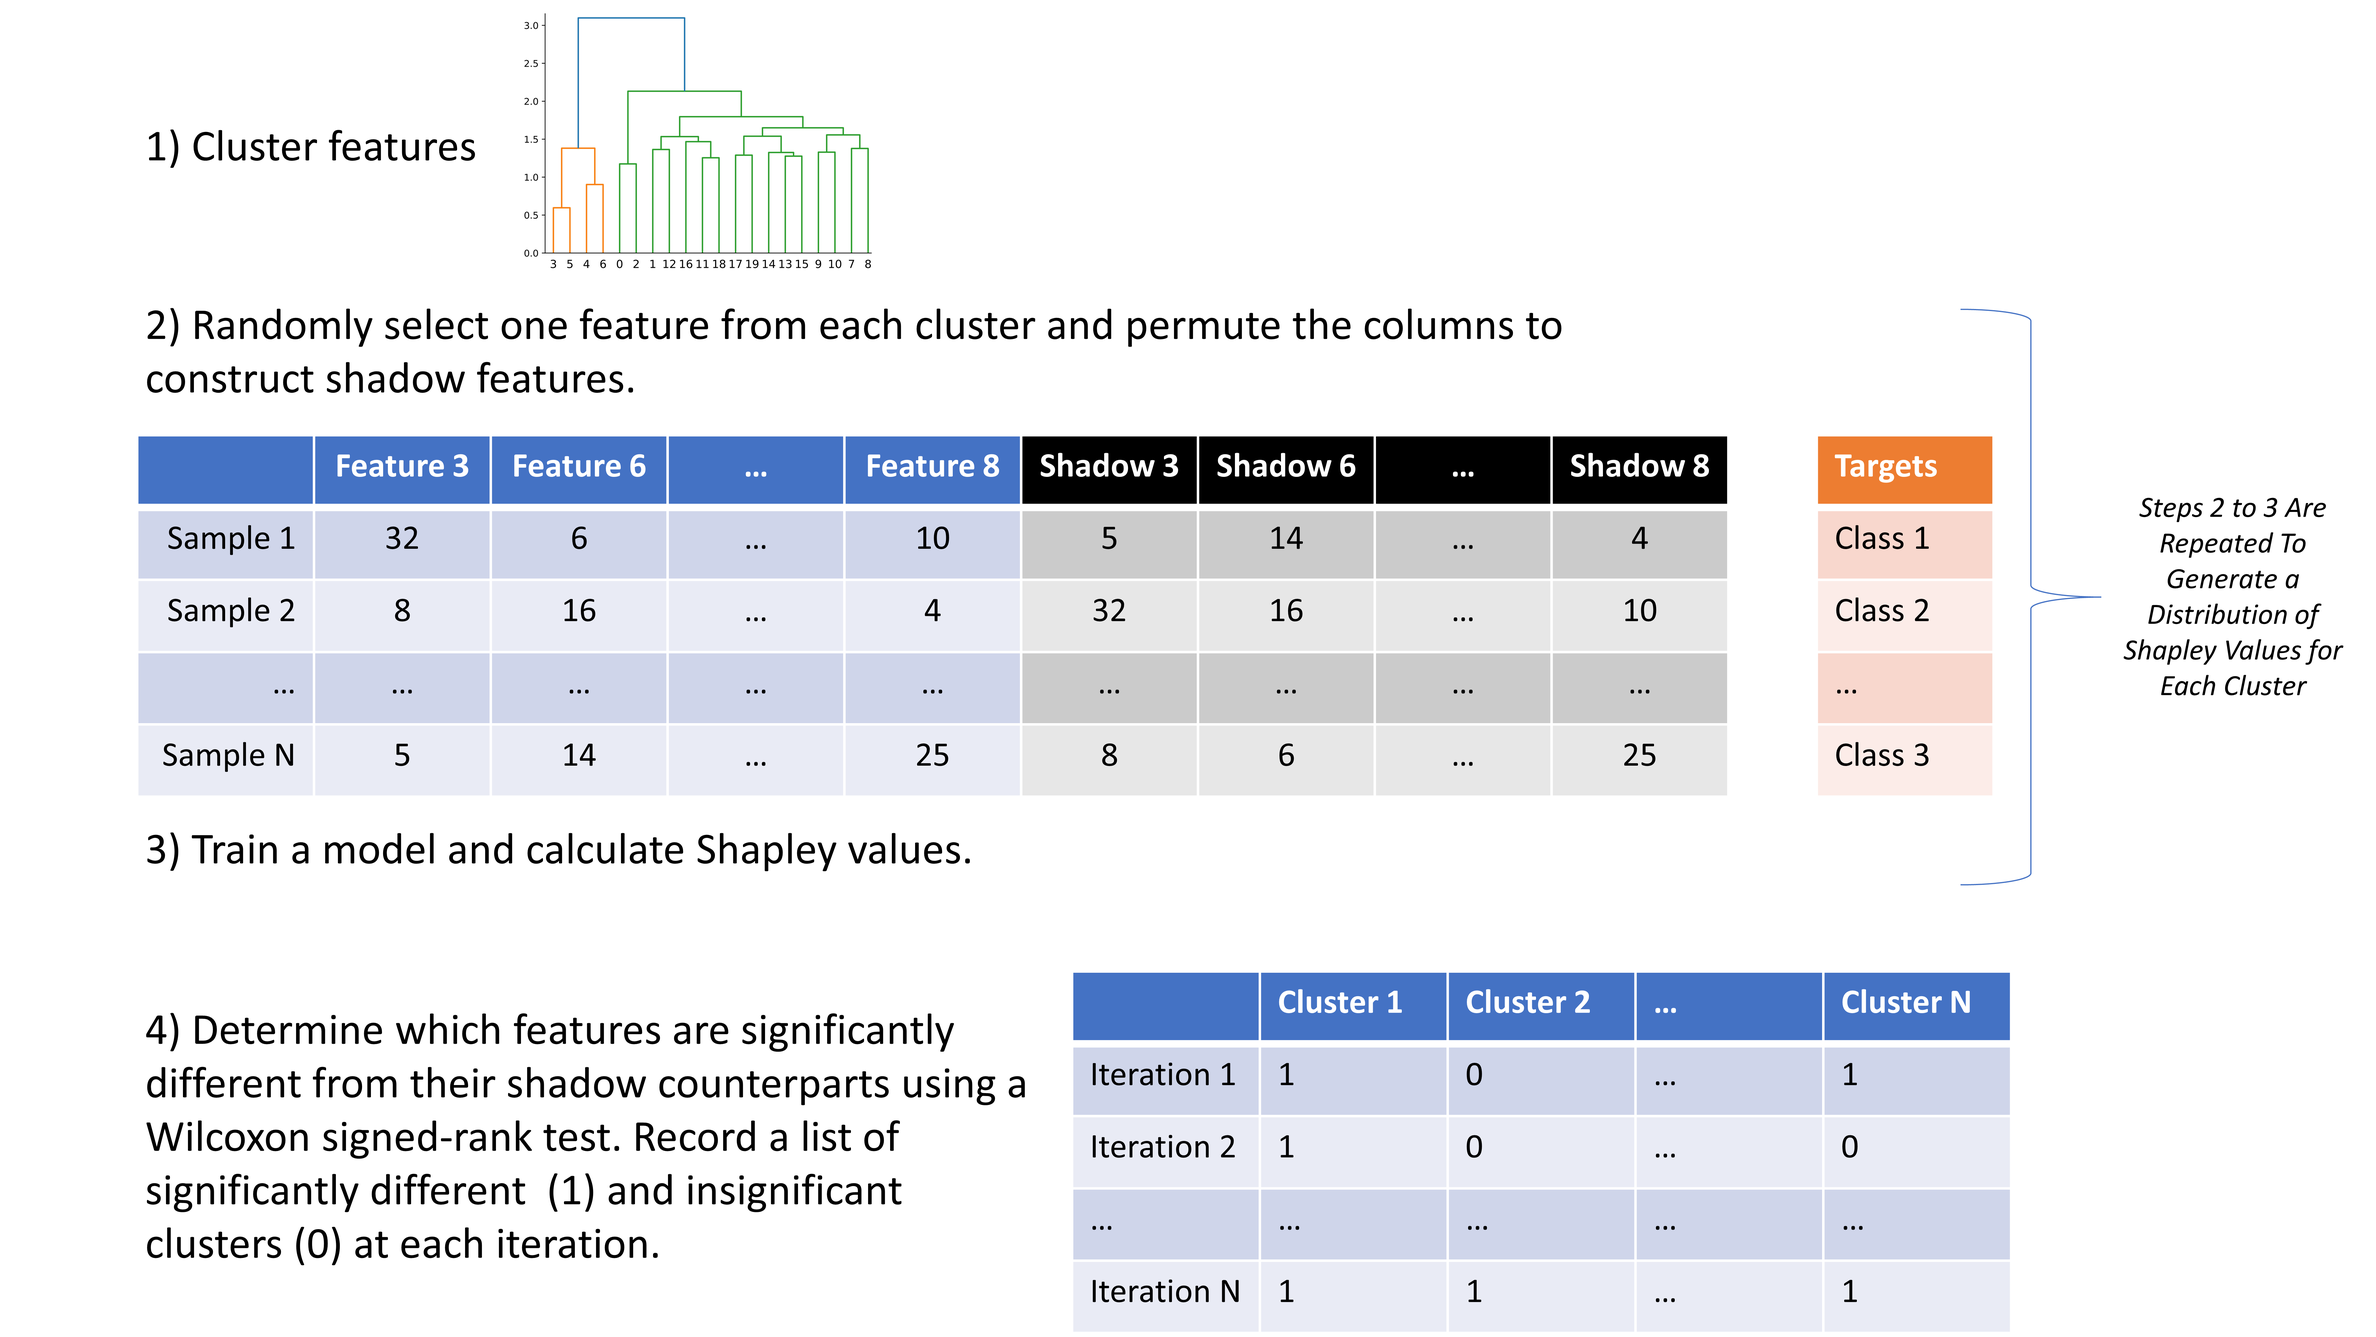
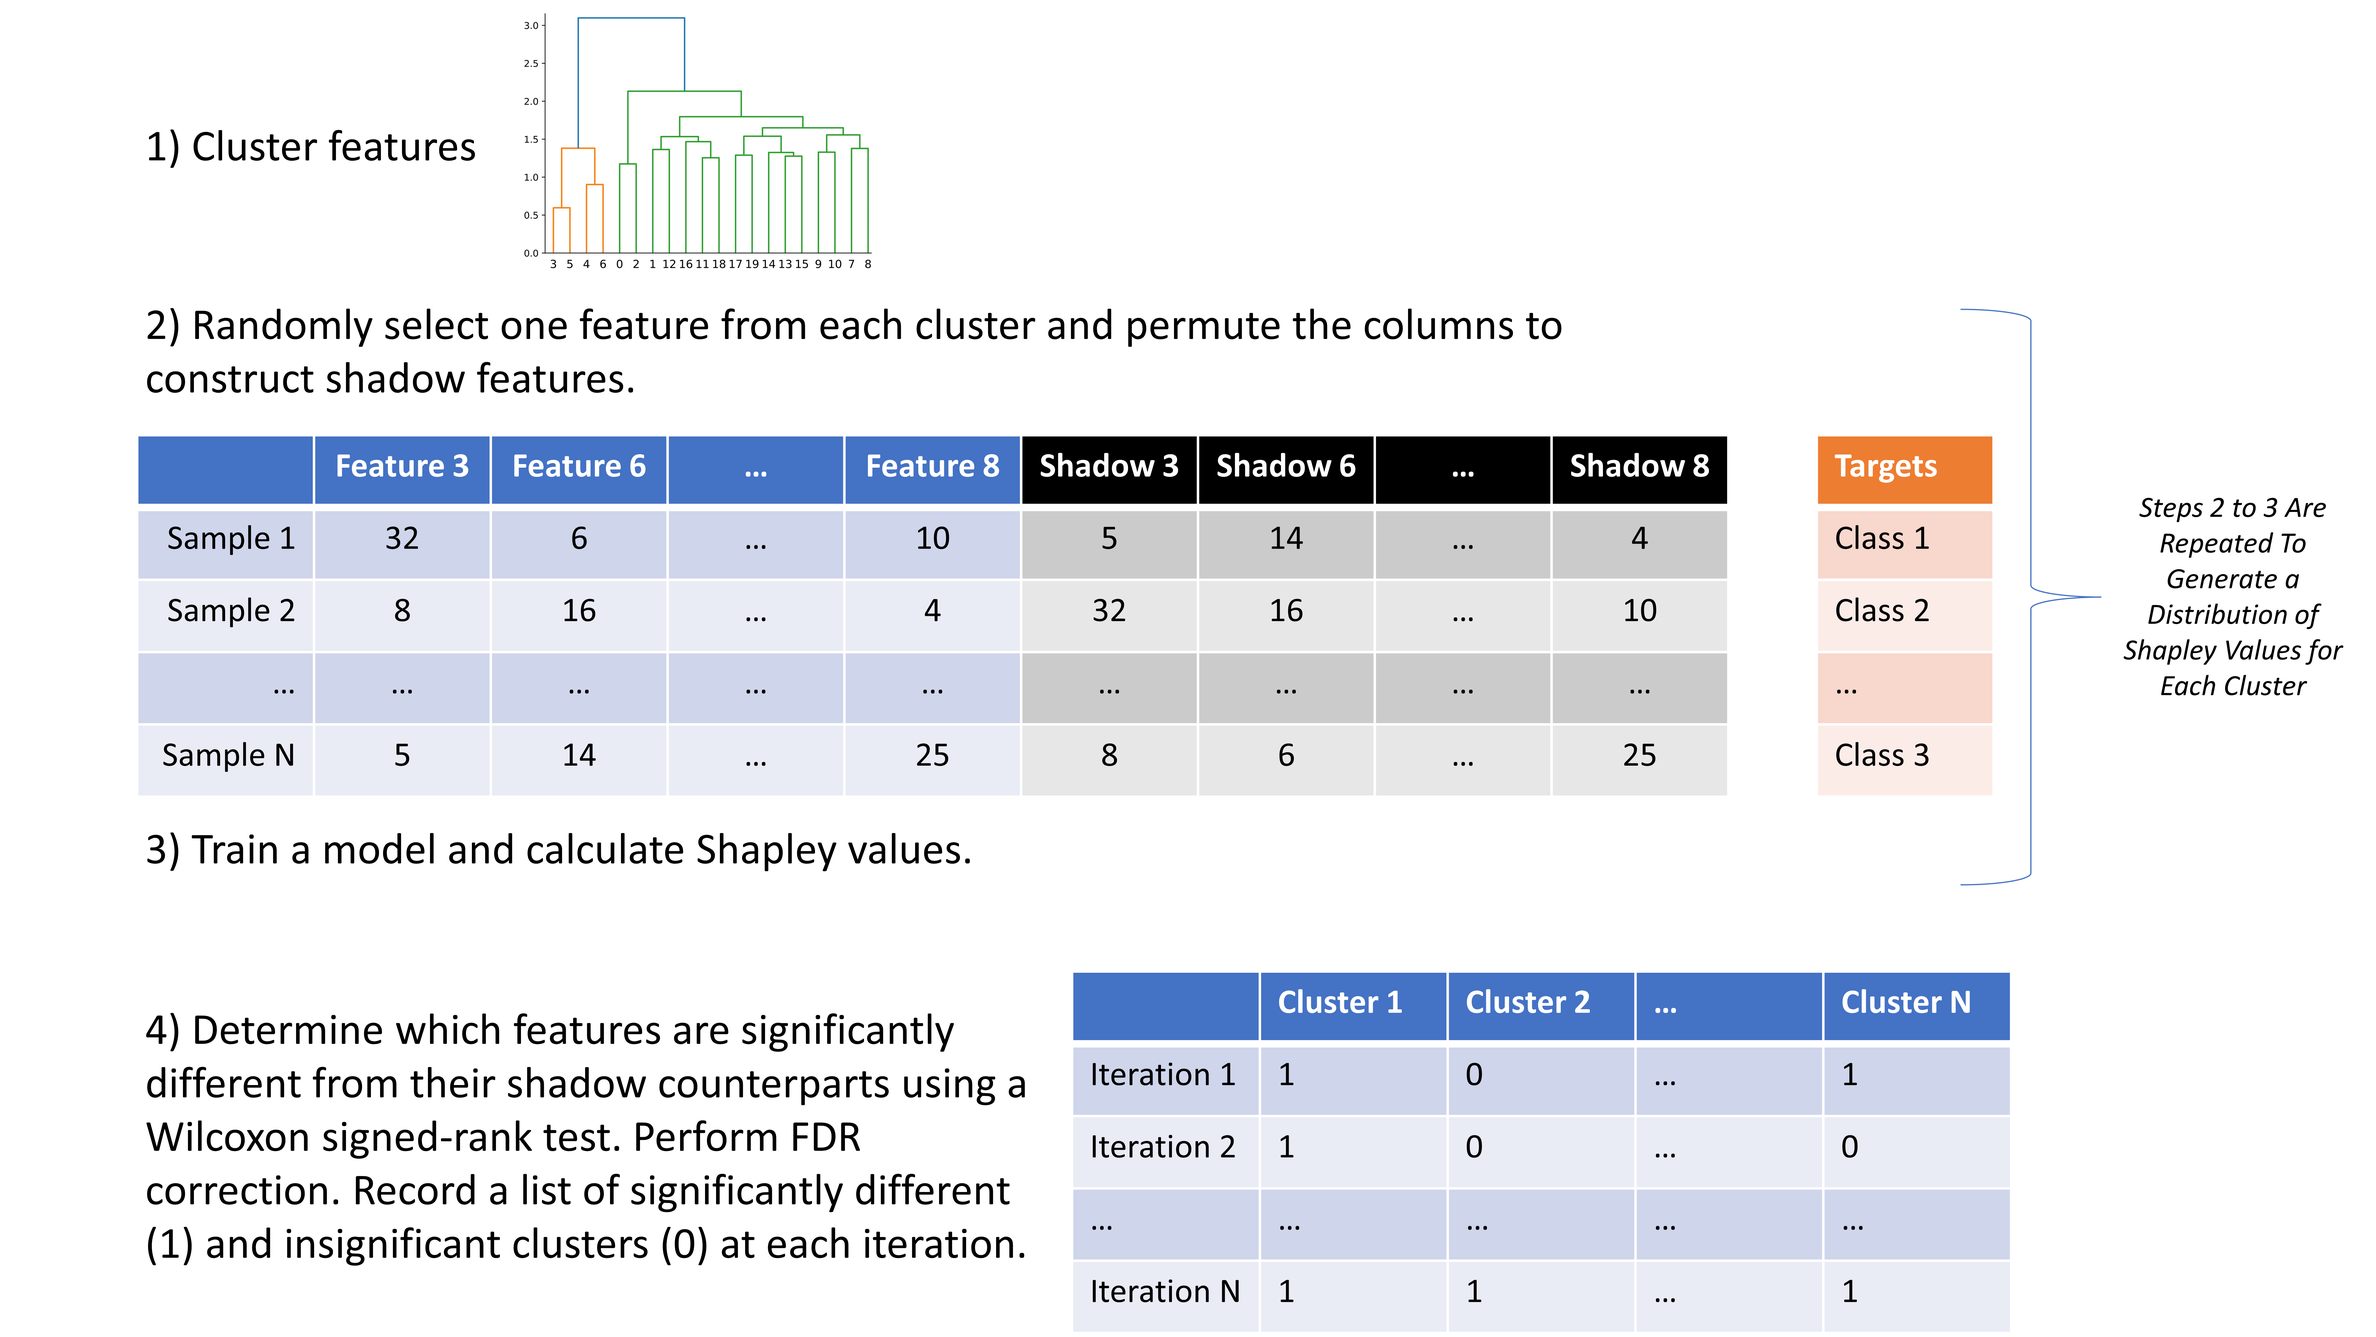
Updated documentation and paper.

Changed region(s): [[0.0625, 0.84, 0.4375, 0.9644]]

diff --git a/docs/API.md b/docs/API.md
@@ -1,0 +1,169 @@
+## Overview of Section
+
+This section provides an overview of the `Triglav` and the different parameters
+of the `Triglav` class and its methods.
+
+## Class
+
+    class triglav.Triglav(transformer = NoScale(), sampler = NoResample(), estimator = ExtraTreesClassifier(512, bootstrap = True),
+                  stage_2_estimator = ExtraTreesClassifier(512, bootstrap = True), per_class_imp = False,
+                  n_iter = 40, n_iter_fwer = 11, p_1 = 0.65, p_2 = 0.30, metric = "correlation", linkage = "complete",
+                  thresh = 2.0, criterion = "distance", run_stage_2 = True, verbose = 0, n_jobs = 10)
+
+### Parameters
+
+    transformer: default = NoScale()
+        The transformer to be used to scale features. One can use
+        the scikit-learn.preprocessing transformers. In addition,
+        CLR and Scaler (converts each row into frequencies) are
+        available by importing 'CLRTransformer' and 'Scaler' from the
+        'triglav' package.
+	
+    sampler: default = NoResample()
+        The resampling method used for imbalanced classes. Should be
+        compatable with 'imblearn' or use an 'imblearn' resampler.
+
+    estimator: default = ExtraTreesClassifier(512, bootstrap = True)
+        The estimator used to calculate Shapley scores.
+
+    stage_2_estimator: default = ExtraTreesClassifier(512)
+        The estimator used to calculate SAGE values. Only used if the
+        'run_stage_2' is set to True.
+	
+    per_class_imp: bool, default = False
+        Specifies if importance scores are calculated globally or per
+        class. Note, per class importance scores are calculated in a
+        one vs rest manner.
+
+    n_iter: int, default = 40
+        The number of iterations to run Triglav.
+
+    n_iter_fwer: int, default = 11
+        The iteration at which Bonferroni corrections begin.
+
+    p_1: float, default = 0.65
+        Used to determine the shape of the Beta-Binomial distribution
+        modelling hits.
+
+    p_2: float, default = 0.30
+        Used to determine the shape of the Beta-Binomial distribution
+        modelling failures.
+
+    metric: str, default = "correlation"
+        The dissimilarity measure used to calculate distances between
+        features. To use Extremely Randomized Trees proximities one
+        has to import 'ETCProx' from the 'triglav' package.
+
+    linkage: str, default = "complete"
+        The type of hierarchical clustering method to apply. The available
+        methods include: single, complete, ward, average, centroid.
+
+    thresh: float, default = 2.0
+        The threshold or max number of clusters.
+
+    criterion: str, default = "distance"
+        The method used to form flat clusters. The available methods
+        include: inconsistent, distance, maxclust, monocrit,
+        maxclust_monocrit.
+
+    alpha: float, default = 0.05
+        The level at which corrected p-values will be rejected.
+
+    run_stage_2: bool, default = True
+        This stage will determine the best feature from each of the
+        selected clusters by calculating SAGE values.
+
+    verbose: int, default = 0
+        Specifies if basic reporting is sent to the user.
+
+    n_jobs: int, default = 10
+        The number of threads
+
+### Attributes
+
+    n_classes_: ndarray of shape (n_classes,)
+        The class labels
+
+    n_class_: int
+        The number of classes
+
+    selected_: ndarray of shape (n_features,)
+        The mask of the selected features.
+
+    selected_best_: ndarray of shape (n_features,) or None
+        The mask of the best features from each cluster. Only returns an ndarray
+        if the 'run_stage_2' parameter is enabled.
+
+    self.sage_values_: SAGE Explanation Object
+        A SAGE explanation object created using the set of features in 'selected_'.
+
+    linkage_matrix_: ndarray
+        The SciPy hierarchical clustering encoded as a linkage matrix.
+
+### Methods
+
+    fit(X, y, **fit_params)
+        Fits a `Triglav` feature selection model.
+
+        Parameters:
+
+        X: NumPy array of shape (m, n) where 'm' is the number of samples and 'n'
+        the number of features (taxa, OTUs, ASVs, etc).
+
+        y: NumPy array of shape (m,) where 'm' is the number of samples. Each entry
+        of 'y' should be a factor.
+
+        Returns:
+
+        A fitted Triglav object.
+
+    transform(X)
+        Reduces X to the selected features contained the 'selected_' attribute.
+
+        Input:
+
+        X: NumPy array of shape (m, n) where 'm' is the number of samples and 'n'
+        the number of features (taxa, OTUs, ASVs, etc).
+
+        Returns:
+
+        X_transformed: NumPy array of shape (m, p) where 'm' is the number of samples and 'p'
+        the number of features (taxa, OTUs, ASVs, etc). 'p' <= m
+
+    fit_transform(X, y, **fit_params)
+        Fits a `Triglav` feature selection model then reduces X to the selected features
+        contained in the 'selected_' attribute.
+
+        Parameters:
+
+        X: NumPy array of shape (m, n) where 'm' is the number of samples and 'n'
+        the number of features (taxa, OTUs, ASVs, etc).
+
+        y: NumPy array of shape (m,) where 'm' is the number of samples. Each entry
+        of 'y' should be a factor.
+
+        Returns:
+
+        X_transformed: NumPy array of shape (m, p) where 'm' is the number of samples and 'p'
+        the number of features (taxa, OTUs, ASVs, etc). 'p' <= m
+
+    visualize_hclust(X, y, ax, **dendrogram_kwargs)
+        Creates a visualization of the hierarchical clustering specified using the 'metric',
+        'thresh', 'linkage', and 'criterion' parameters of the `Triglav`
+
+        Parameters:
+
+        X: NumPy array of shape (m, n) where 'm' is the number of samples and 'n'
+        the number of features (taxa, OTUs, ASVs, etc).
+
+        y: NumPy array of shape (m,) where 'm' is the number of samples. Each entry
+        of 'y' should be a factor.
+
+        ax: matplotlib.axes.Axes (optional). The axes on which to plot the dendrogram. If None,
+        the dendrogram will be plotted to a new figure sublot axis.
+
+        Returns:
+
+        dict: A dictionary of data structures computed to render the dendrogram.
+        See https://docs.scipy.org/doc/scipy/reference/generated/scipy.cluster.hierarchy.dendrogram.html
+        for more details.

diff --git a/paper/paper.md b/paper/paper.md
@@ -65,7 +65,7 @@ useful interpretation of the data.
 
 # Outline of the Triglav Algorithm
 
-The core assumption behind 'Triglav' is that clusters of features sharing similar values across all samples should be 
+The core assumption behind `Triglav` is that clusters of features sharing similar values across all samples should be 
 discoverable. This is not an unreasonable assumption in biological datasets. For example, different patterns in the abundance of 
 gut bacteria could exist between healthy controls and Crohn's Disease patients [@CD]. To take advantage of this observation, 
 `Triglav` begins by clustering features [@2020SciPy-NMeth]. Then the algorithm randomly selects one feature from each cluster. 
@@ -84,17 +84,29 @@ by calculating the SAGE importance score [@SAGE]. This step is optional. A visua
 
 Currently, this method is being used in projects to discover features capable of predicting host-origin of viral samples at the 
 National Centre for Foreign Animal Disease with the Canadian Food Inspection Agency. In addition to this work, we hope to integrate 
-`Triglav` into an end-to-end suite with our previously developed tools, LANDMark and TreeOrdination [@LANDMark; @TreeOrdination], 
+`Triglav` into an end-to-end suite with our previously developed tools, `LANDMark` and `TreeOrdination` [@LANDMark; @TreeOrdination], 
 to provide a tool-set which will identify predictive features and explain how these features are used to explain a sample's location 
 in projection and classification.
 
 # Acknowledgements
 
+We thank Dr. Terri M. Porter, Dr. Oksana Vernygora, and Hoang Hai Nguyen for their thoughtful review of the manuscript and code. Finally, 
+we thank our reviewers and editor for their time and comments. Their work has resulted in a considerably improved final product. 
+J.R. is supported by funds from the Food from Thought project as part of Canada First Research Excellence Fund. M.H. received funding 
+from the Government of Canada through Genome Canada and Ontario Genomics. G.B.G. is supported by a Natural Sciences and Engineering 
+Research Council of Canada (NSERC) grant (RGPIN-2020-05733).
 
 # Figures
 
-![A high-level overview of the first half of the `Triglav` algorithm. The output of this part of the algorithm is a binary matrix specifying if the distribution of Shapley values associated with a cluster of features differs significantly from the distribution associated with the corresponding shadow cluster.\label{fig:overview}](Figure 1.png)
+![A high-level overview of the first half of the `Triglav` algorithm. The output of this part of the algorithm is a binary matrix 
+specifying if the distribution of Shapley values associated with a cluster of features differs significantly from the distribution 
+associated with the corresponding shadow cluster. False discovery rate corrections are applied at this step.\label{fig:overview}](Figure 1.png)
 
-![A high-level overview of the second half of the `Triglav` algorithm. The output of this part of the algorithm is a list of selected features. Two different beta-binomial distributions are used to determine if a feature is selected or rejected. These distributions are used by `Triglav` since they can model over-dispersion in zero-counts due to the random selection of features in the first-half of the algorithm. For a feature to be selected, the number of times a significant difference was observed should fall within the critical region determined by the survival function of the first distribution or the cumulative distribution function of the second.\label{fig:overview2}](Figure 2.png)
+![A high-level overview of the second half of the `Triglav` algorithm. The output of this part of the algorithm is a list of 
+selected features. Two different beta-binomial distributions are used to determine if a feature is selected or rejected. These 
+distributions are used by `Triglav` since they can model over-dispersion in zero-counts due to the random selection of features in 
+the first-half of the algorithm. For a feature to be selected, the number of times a significant difference was observed should 
+fall within the critical region determined by the survival function of the first distribution or the cumulative distribution 
+function of the second. A false-discovery rate and Bonferroni correction are applied at this step.\label{fig:overview2}](Figure 2.png)
 
 # References

diff --git a/README.md b/README.md
@@ -25,8 +25,7 @@ modifications:
    of a hit must be significant after correcting for multiple comparisons and
    applying a Bonferroni correction for each iteration greater than or equal
    to the 'n_iter_fwer' parameter. For a cluster to be rejected a similar round
-   of reasoning applies. Clusters that are neither selected or rejected remain
-   tentative.
+   of reasoning applies. Clusters that are not rejected remain tentative.
 
 4) After the iterative refinement stage SAGE scores could be used to select
    the best feature from each cluster.
@@ -67,100 +66,9 @@ source venv/bin/activate
 pip install .
 ```
 
-## Class Parameters
+##
 
-    transformer: default = NoScale()
-        The transformer to be used to scale features. One can use
-        the scikit-learn.preprocessing transformers. In addition,
-        CLR and Scaler (converts each row into frequencies) are
-        available by importing 'CLRTransformer' and 'Scaler' from the
-        'triglav' package.
-	
-    sampler: default = NoResample()
-        The resampling method used for imbalanced classes. Should be
-        compatable with 'imblearn' or use an 'imblearn' resampler.
-
-    estimator: default = ExtraTreesClassifier(512, bootstrap = True)
-        The estimator used to calculate Shapley scores.
-
-    stage_2_estimator: default = ExtraTreesClassifier(512)
-        The estimator used to calculate SAGE values. Only used if the
-        'run_stage_2' is set to True.
-	
-    per_class_imp: bool, default = False
-        Specifies if importance scores are calculated globally or per
-        class. Note, per class importance scores are calculated in a
-        one vs rest manner.
-
-    n_iter: int, default = 40
-        The number of iterations to run Triglav.
-
-    n_iter_fwer: int, default = 11
-        The iteration at which Bonferroni corrections begin.
-
-    p_1: float, default = 0.65
-        Used to determine the shape of the Beta-Binomial distribution
-        modelling hits.
-
-    p_2: float, default = 0.30
-        Used to determine the shape of the Beta-Binomial distribution
-        modelling failures.
-
-    metric: str, default = "correlation"
-        The dissimilarity measure used to calculate distances between
-        features. To use Extremely Randomized Trees proximities one
-        has to import 'ETCProx' from the 'triglav' package.
-
-    linkage: str, default = "complete"
-        The type of hierarchical clustering method to apply. The available
-        methods include: single, complete, ward, average, centroid.
-
-    thresh: float, default = 2.0
-        The threshold or max number of clusters.
-
-    criterion: str, default = "distance"
-        The method used to form flat clusters. The available methods
-        include: inconsistent, distance, maxclust, monocrit,
-        maxclust_monocrit.
-
-    alpha: float, default = 0.05
-        The level at which corrected p-values will be rejected.
-
-    run_stage_2: bool, default = True
-        This stage will determine the best feature from each of the
-        selected clusters by calculating SAGE values.
-
-    verbose: int, default = 0
-        Specifies if basic reporting is sent to the user.
-
-    n_jobs: int, default = 10
-        The number of threads
-
-## Fit Parameters
-
-        Inputs:
-
-        X: NumPy array of shape (m, n) where 'm' is the number of samples and 'n'
-        the number of features (taxa, OTUs, ASVs, etc).
-
-        y: NumPy array of shape (m,) where 'm' is the number of samples. Each entry
-        of 'y' should be a factor.
-
-        Returns:
-
-        A fitted Triglav object.
-
-## Transform Parameters
-
-        Input:
-
-        X: NumPy array of shape (m, n) where 'm' is the number of samples and 'n'
-        the number of features (taxa, OTUs, ASVs, etc).
-
-        Returns:
-
-        X_transformed: NumPy array of shape (m, p) where 'm' is the number of samples and 'p'
-        the number of features (taxa, OTUs, ASVs, etc). 'p' <= m
+An overview of the API can be found [here](docs/API.md).
 
 ## Disclaimer
 

diff --git a/notebooks/README.md b/notebooks/README.md
@@ -1,3 +1,4 @@
 This directory contains example notebooks for Triglav. The notebooks are organized as follows:
 
 - [01_random_dataset.ipynb](01_random_dataset.ipynb) - A notebook that demonstrates how to use Triglav with a randomly generated dataset.
+- [amplicon_dataset.ipynb](16S_CD_microbiome.ipynb) - A notebook that demonstrates a simple amplicon sequencing analysis using Triglav.
